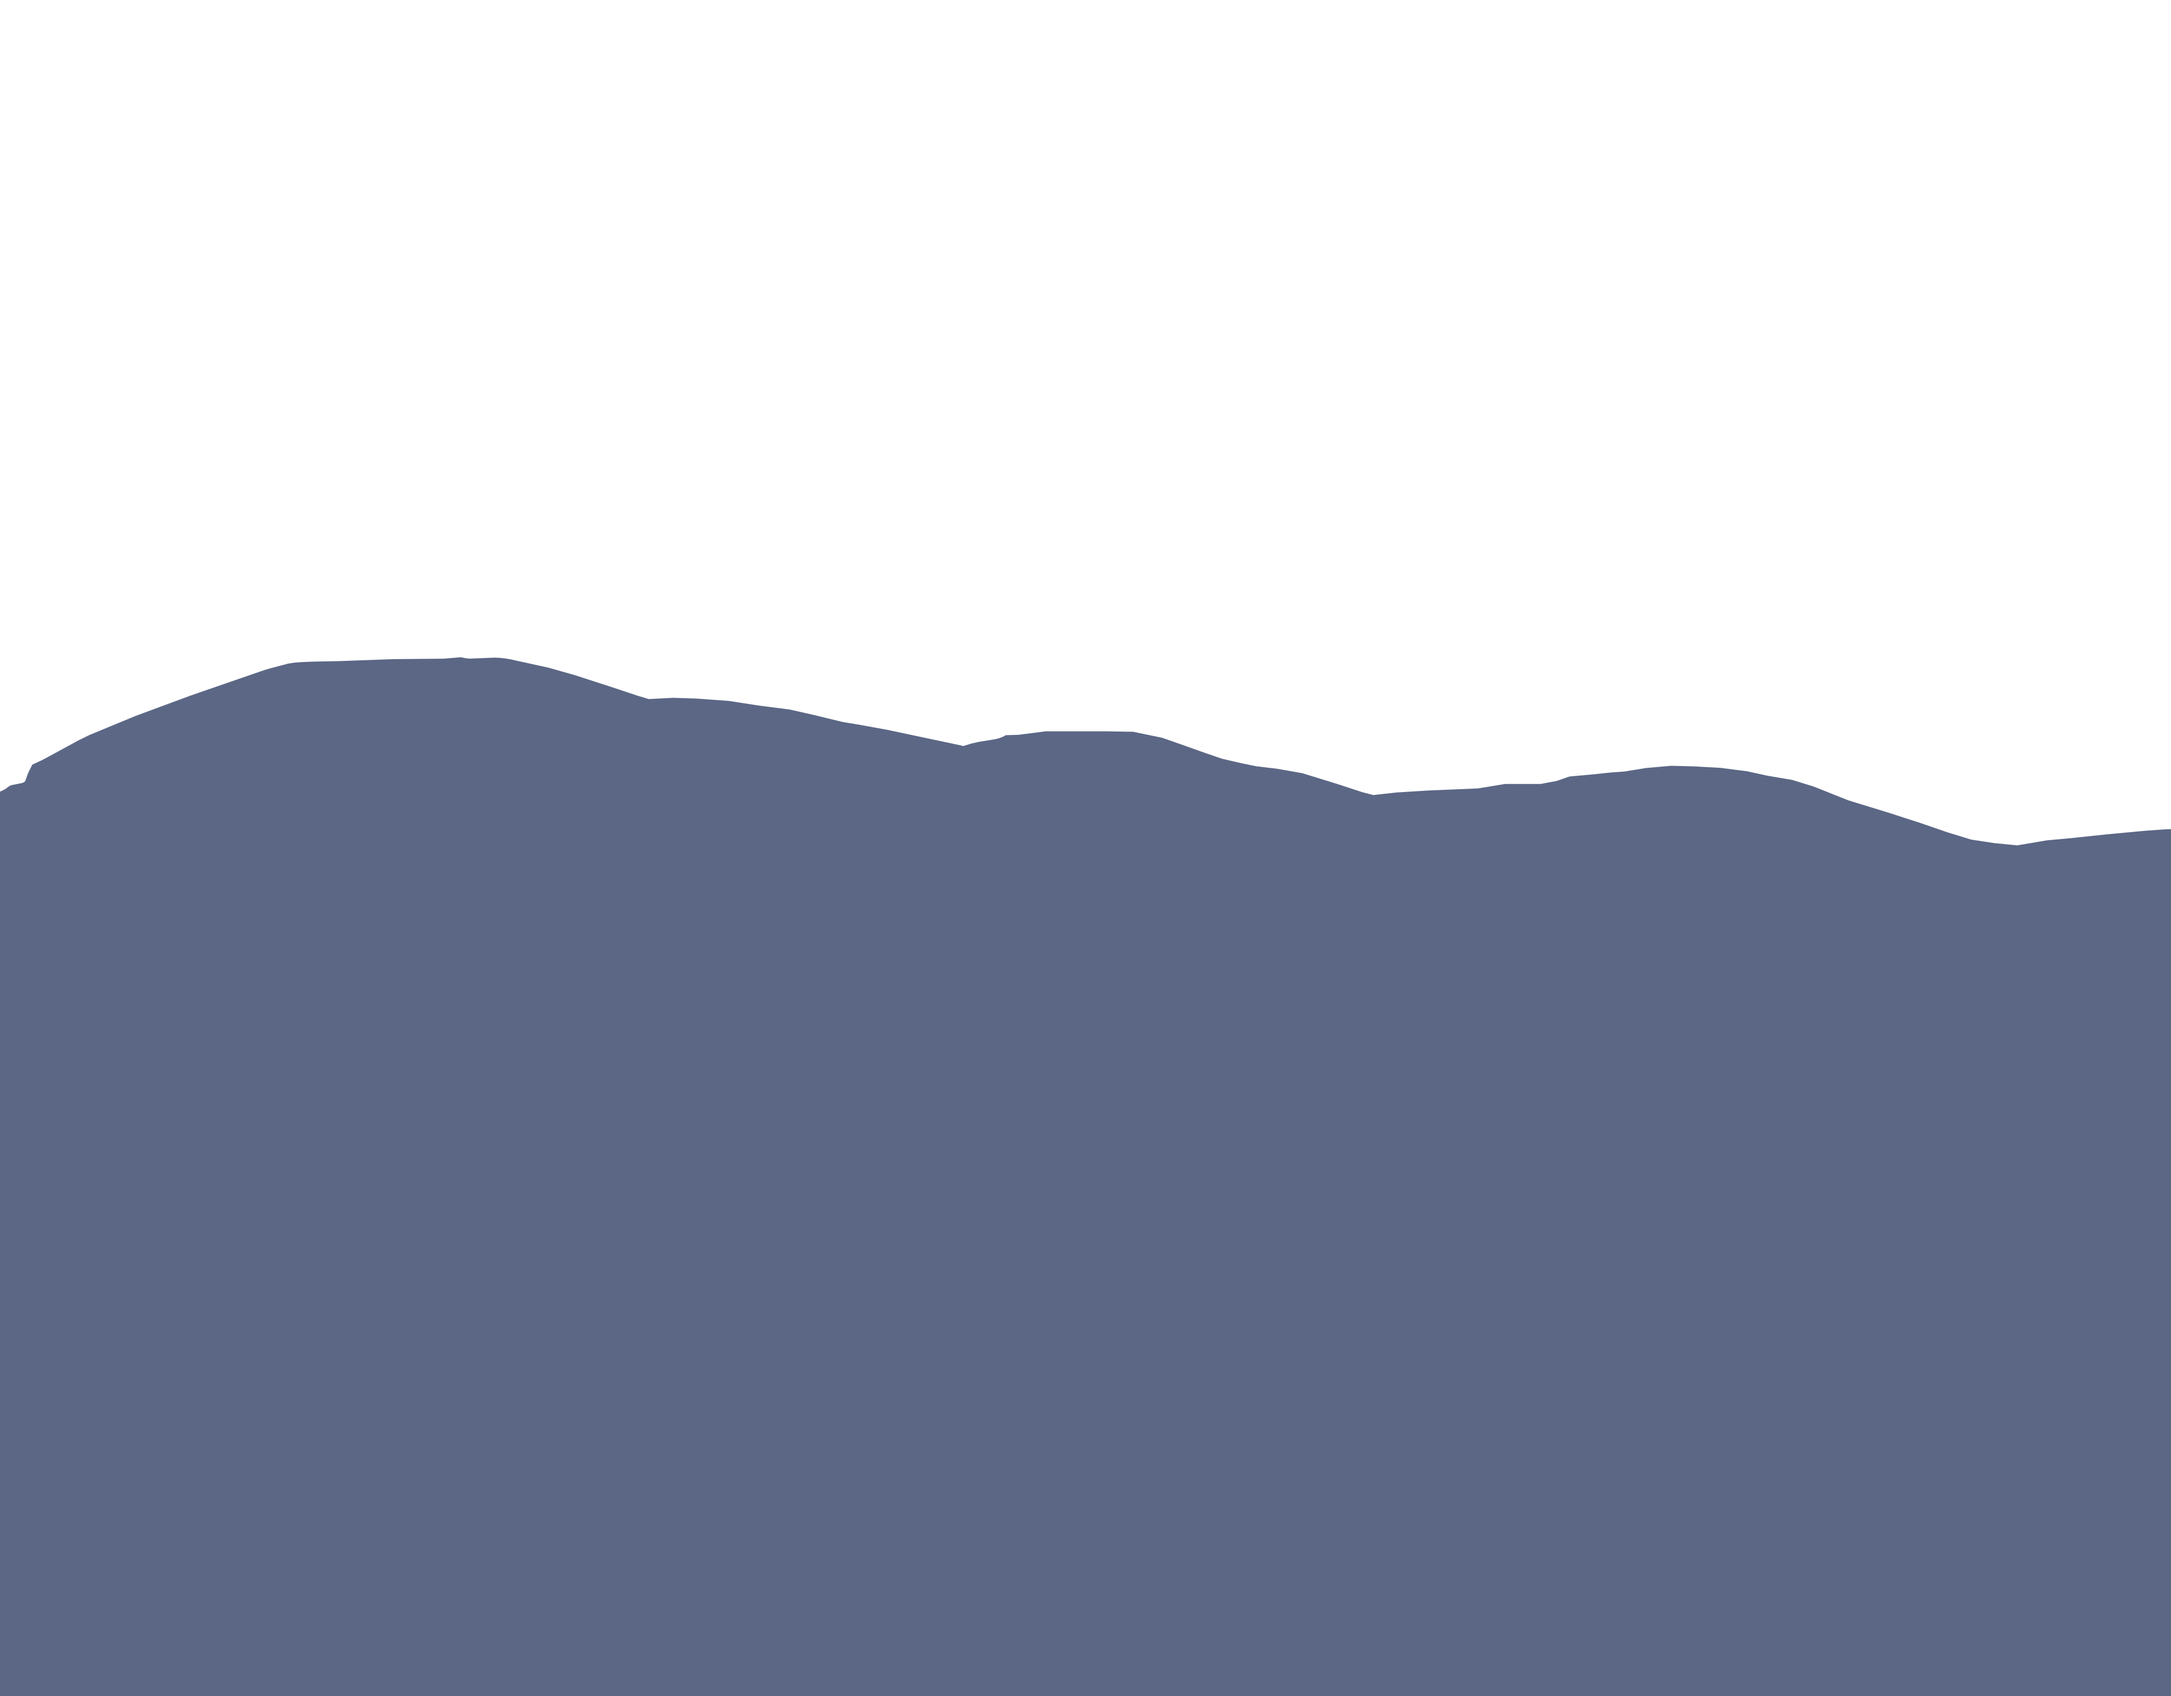
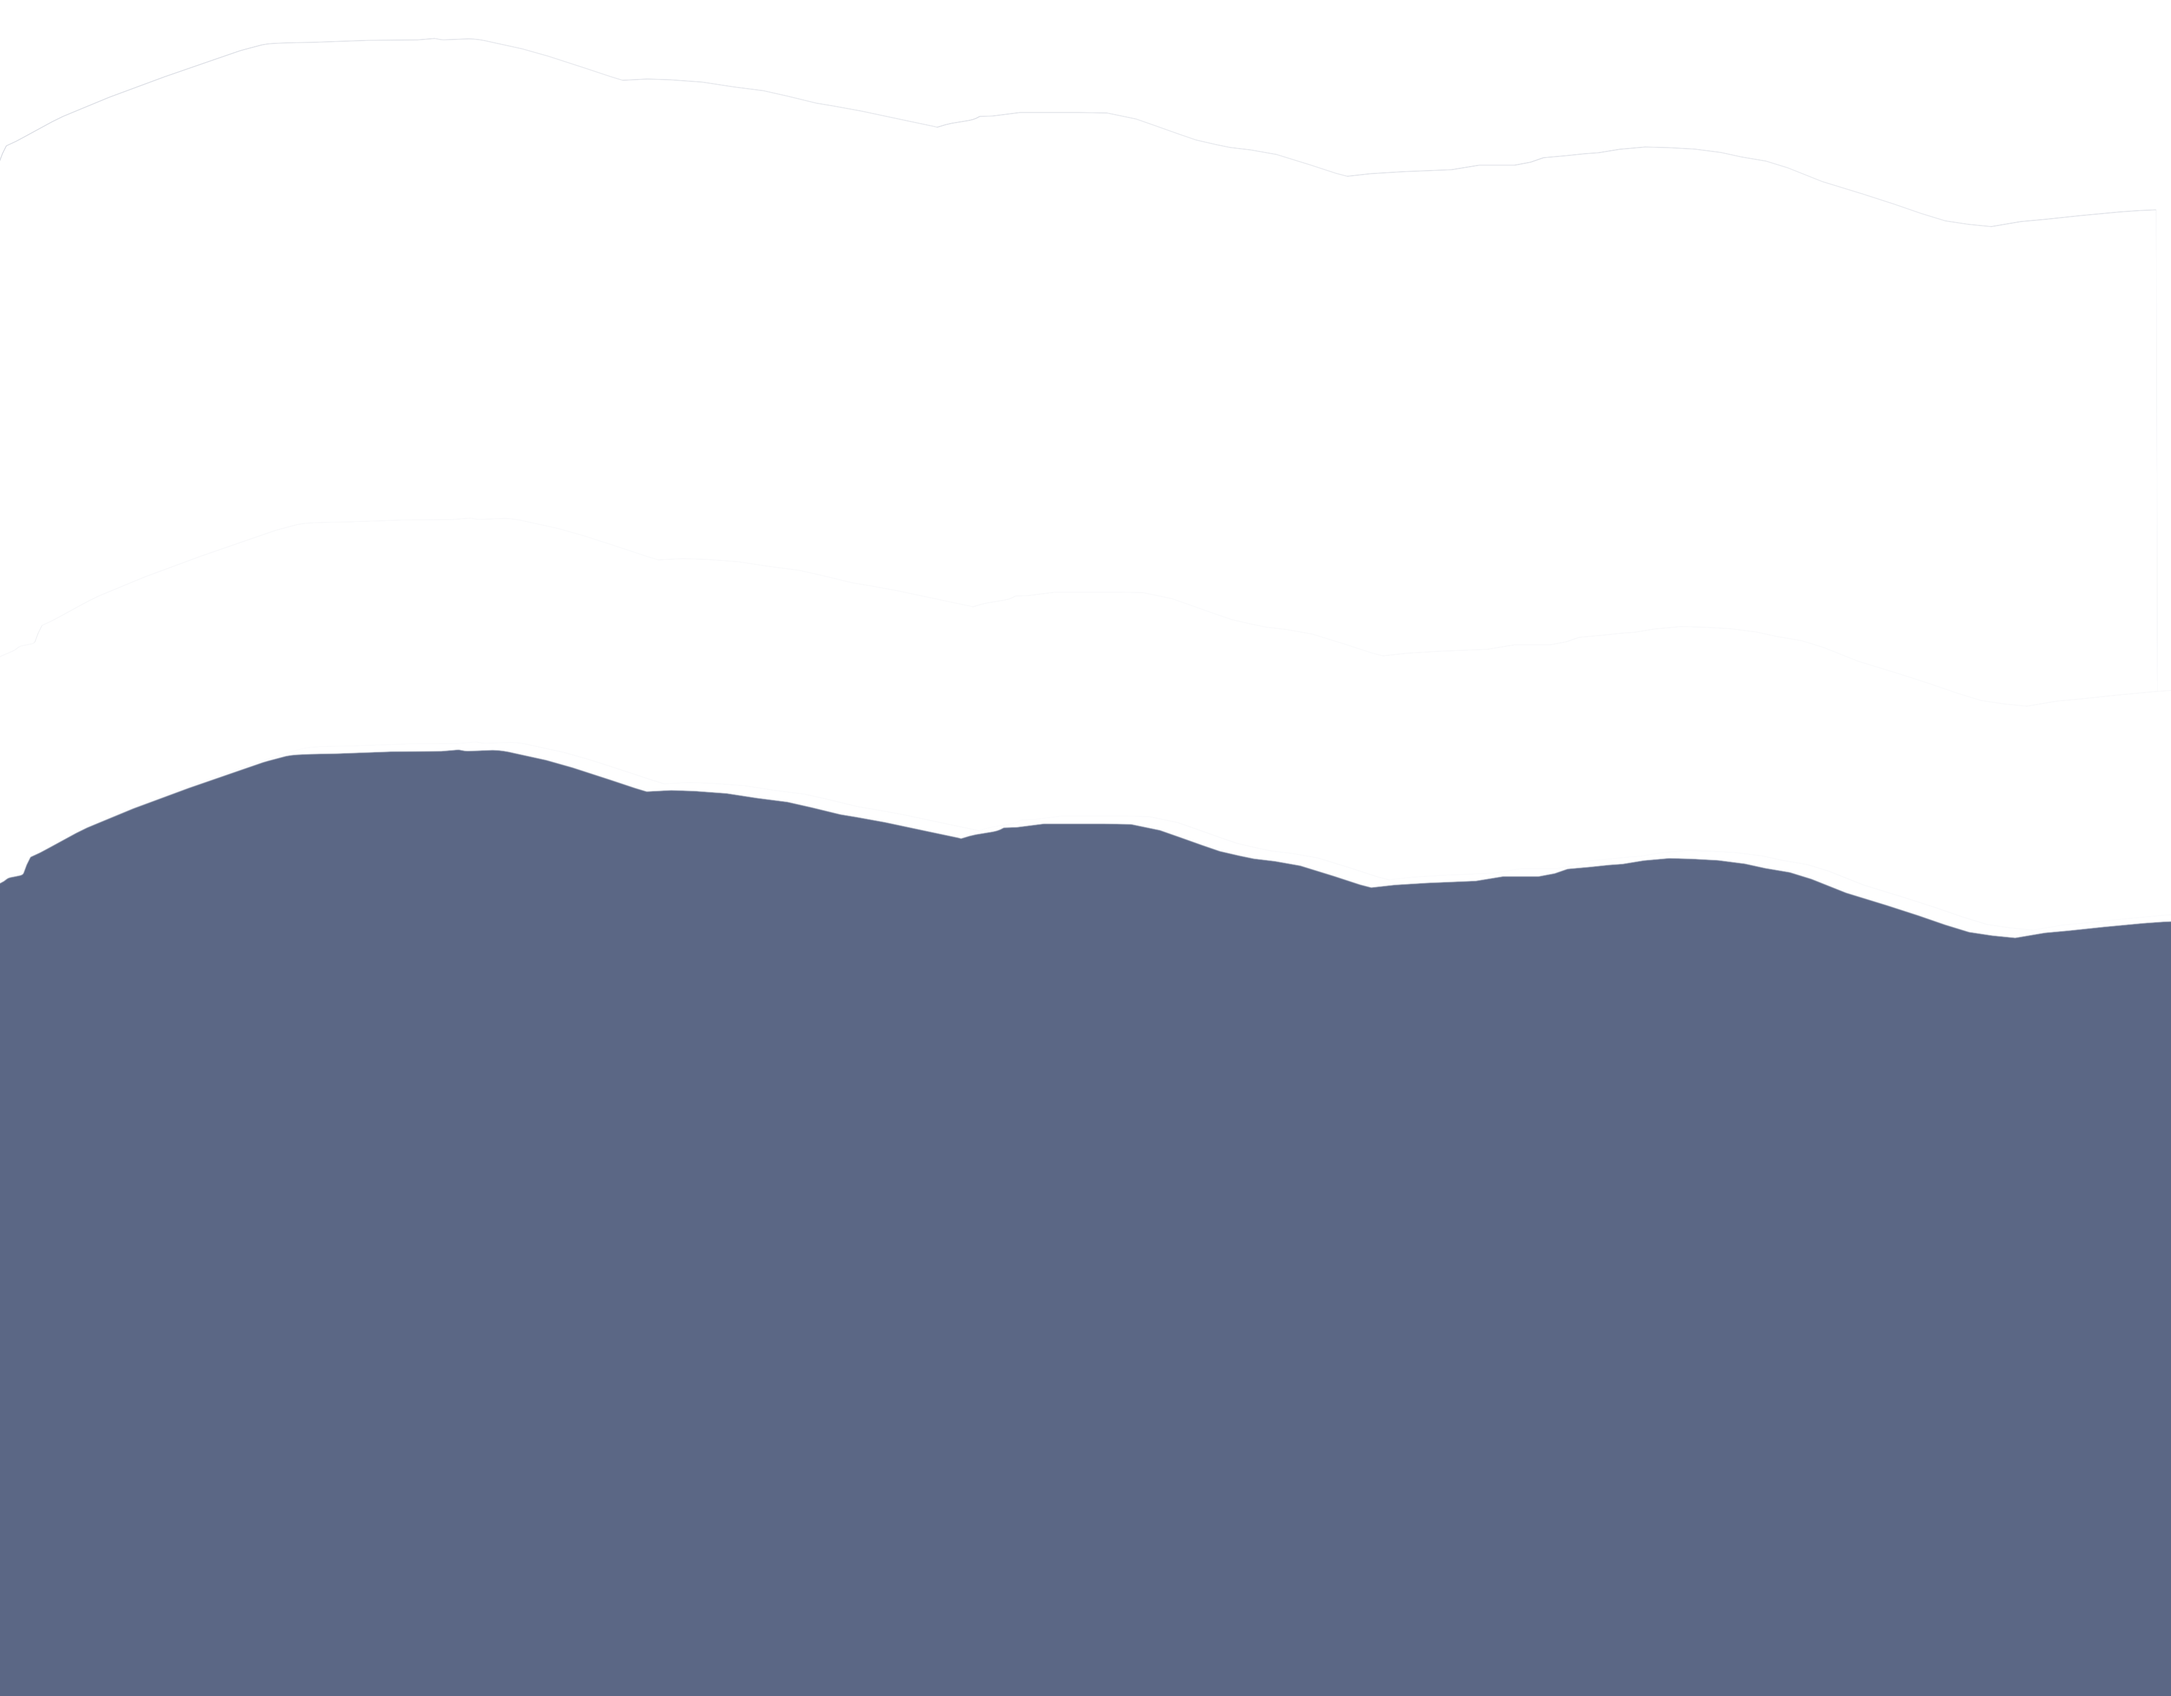
Updates

Changed region(s): [[0.0, 0.372, 1.0, 0.558]]

diff --git a/index.html b/index.html
@@ -17,7 +17,7 @@
     <script src="js/main.js" type="text/javascript" ></script>
     <nav>
         <ul class="navbar">
-            <li><a href="index.html">Logo</a></li>
+            <li><a href="index.html">Pa-He</a></li>
             <li class="topbar_element"><a href="about.html">About</a></li>
             <li class="topbar_element"><a href="places.html">Discover</a></li>
             <li class="topbar_element"><a href="map.html">Map</a></li>
@@ -47,9 +47,14 @@
     <div class="parallax-wrapper">
 
         <header class="landing-header">
-            <img src="/dist/img/Parallax_backdrop/Pallas_Patikka_parallax_tausta_1.png" class="parallax-backdrop-img">
-            <img src="/dist/img/Parallax_backdrop/Pallas_Patikka_parallax_tausta_4_alt.png" class="parallax-foreground-img">
-            <h3 class="lg-heading" style="line-height: 100%;">Pallas hetta</h3>
+            <img src="/dist/img/Parallax_backdrop/Pallas_Patikka_parallax_tausta_0.png" class="parallax-backdrop-img">
+
+            <img src="/dist/img/Parallax_backdrop/Pallas_Patikka_parallax_tausta_title_logo.png" class="parallax-title-logo-img">
+
+            <img src="/dist/img/Parallax_backdrop/Pallas_Patikka_parallax_tausta_1.png" class="parallax-1-img">
+            <img src="/dist/img/Parallax_backdrop/Pallas_Patikka_parallax_tausta_2.png" class="parallax-2-img">
+            <img src="/dist/img/Parallax_backdrop/Pallas_Patikka_parallax_tausta_3.png" class="parallax-3-img">
+            <img src="/dist/img/Parallax_backdrop/Pallas_Patikka_parallax_tausta_4.png" class="parallax-foreground-img">
         </header>
         <section class="landing-content">
         Lorem ipsum dolor sit amet consectetur adipisicing elit. Beatae dignissimos id dolor et ipsam facilis rerum soluta incidunt vero impedit, porro unde ipsa natus inventore iure possimus, accusamus ad quia. Soluta nostrum laudantium quisquam delectus incidunt cumque beatae aliquid maiores, doloribus est earum unde voluptas a aliquam recusandae minus laboriosam officia magnam ullam quidem, adipisci, repudiandae qui officiis. Dolore aliquid nulla ratione quasi quod vel eveniet odit iure ducimus, velit, nisi voluptas ea suscipit expedita? Eaque ex nostrum at corporis facilis deserunt distinctio pariatur possimus in. Ullam similique totam velit, in porro quia esse explicabo, maiores molestias saepe, odio est necessitatibus dolorum natus id magni pariatur quod cupiditate. Repellat eaque fuga illum autem quia mollitia rerum adipisci natus, ex aut labore, nostrum non omnis veniam facere ea laudantium repudiandae cupiditate alias consequatur recusandae dignissimos dicta. Beatae doloribus provident veritatis enim magni, reprehenderit officia incidunt praesentium cum ducimus autem voluptatibus soluta dolorum? Officia voluptatem nesciunt aut perferendis ratione commodi. Blanditiis cumque quasi quidem eaque minus non maxime quam, provident iure, rem ut dicta possimus, officia repudiandae necessitatibus explicabo vero illum dignissimos consequuntur exercitationem alias reprehenderit labore culpa. Nihil eius maxime quaerat quibusdam qui sit, necessitatibus beatae adipisci, explicabo, fugit iste nemo.

diff --git a/css/main.css b/css/main.css
@@ -6,7 +6,7 @@
 
 :root {
   --headline-color: white;
-  --background-color: #d4d4d3 ;
+  --background-color: rgba(184,200,237,255);
   --text-color: rgba(255, 255, 255, 0.4); }
 
 html, body {
@@ -94,7 +94,8 @@ header {
   height: 100vh;
   overflow-x: hidden;
   overflow-y: auto;
-  perspective: 100px; }
+  perspective: 100px;
+  background-color: #181720; }
 
 .landing-header {
   position: relative;
@@ -105,11 +106,34 @@ header {
   transform-style: preserve-3d;
   z-index: -5; }
 
+.parallax-title-logo-img {
+  align-self: center;
+  max-width: 60%;
+  height: auto;
+  margin-top: 30px;
+  position: absolute;
+  z-index: -4; }
+
 .parallax-backdrop-img {
-  transform: translateZ(-100px) scale(2); }
+  transform: translateZ(-80px) scale(1.8); }
+
+.parallax-1-img {
+  transform: translateZ(-60px) scale(1.6); }
+
+.parallax-2-img {
+  transform: translateZ(-40px) scale(1.4); }
+
+.parallax-3-img {
+  transform: translateZ(-15px) scale(1.15); }
+
+.parallax-foreground-img {
+  scale: 1; }
 
 .parallax-backdrop-img,
-.arallax-foreground-img {
+.parallax-1-img,
+.parallax-2-img,
+.parallax-3-img,
+.parallax-foreground-img {
   position: absolute;
   height: 100%;
   width: 100%;
@@ -119,13 +143,13 @@ header {
 .landing-content {
   font-size: 2rem;
   padding: 2rem;
-  background-color: #333;
-  color: white; }
+  background-color: #181720;
+  color: white;
+  z-index: 0; }
 
 .landing-screen {
   justify-content: center;
-  height: 100vh;
-  background-image: url("../dist/img/Parallax_backdrop/Pallas_Patikka_parallax_tausta_1.png"); }
+  height: 100vh; }
 
 .about-info {
   display: grid;

diff --git a/map.html b/map.html
@@ -13,7 +13,7 @@
 <body>
     <nav>
         <ul class="navbar">
-            <li><a href="index.html">Logo</a></li>
+            <li><a href="index.html">Pa-He</a></li>
             <li class="topbar_element"><a href="about.html">About</a></li>
             <li class="topbar_element"><a href="places.html">Discover</a></li>
             <li class="topbar_element"><a href="map.html">Map</a></li>

diff --git a/places.html b/places.html
@@ -12,7 +12,7 @@
 <body>
     <nav>
         <ul class="navbar">
-            <li><a href="index.html">Logo</a></li>
+            <li><a href="index.html">Pa-He</a></li>
             <li class="topbar_element"><a href="about.html">About</a></li>
             <li class="topbar_element"><a href="places.html">Discover</a></li>
             <li class="topbar_element"><a href="map.html">Map</a></li>
